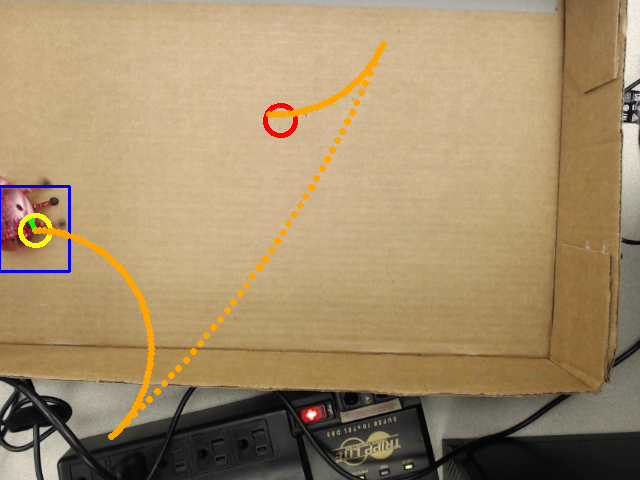
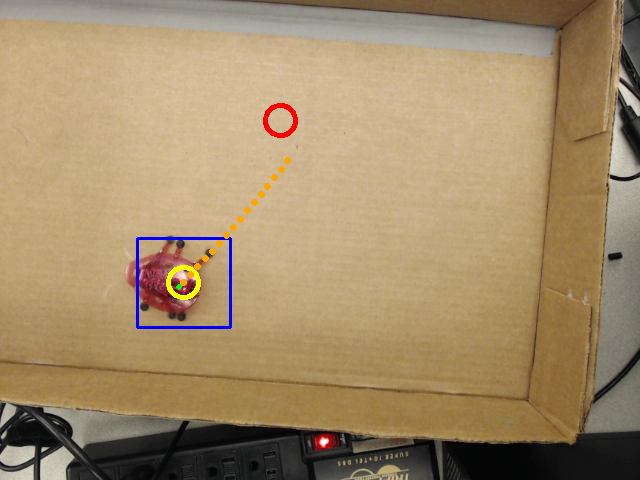
kinda working replanning

diff --git a/src/planners/sys_id.py b/src/planners/sys_id.py
@@ -57,19 +57,27 @@ def online_planning(planner, goal):
     ret, mat = video_capture.read()
     err_code, tracking_rect = tracker.update(mat)
     init_robot_state = two_rects_to_state(tracking_rect, last_track_rect)
+    replan_timestep_horizon = 20
     if not SYSTEM_ID_MODE:
         plan = planner.plan_to_pose(init_robot_state, goal)
-        planner.execute_plan(plan)
+        if plan:
+            planner.execute_plan(plan, replan_timestep_horizon)
+        else:
+            print("couldn't find plan")
     xys = []
     t = 0 
-    replan_timestep_horizon = 20
+
     while True: # and t < 10 * total_time: 
         ret, mat = video_capture.read()
         last_track_rect = tracking_rect
         err_code, tracking_rect = tracker.update(mat)
+        init_robot_state = two_rects_to_state(tracking_rect, last_track_rect)
         if t % replan_timestep_horizon == 0:
-            plan = planner.plan_to_pose(init_robot_state, goal)
-            planner.execute_plan(plan)
+            plan = planner.plan_to_pose(init_robot_state, goal, replan_timestep_horizon)
+            if plan:
+                planner.execute_plan(plan, replan_timestep_horizon)
+            else:
+                print("couldn't find plan")
         
         mat = cv2.rectangle(mat, (int(tracking_rect[0]), int(tracking_rect[1])), (int(tracking_rect[0] + tracking_rect[2]), int(tracking_rect[1] + tracking_rect[3])), 255, thickness=2)
         xy =  np.array([(tracking_rect[0] + tracking_rect[2] / 2), 

diff --git a/src/planners/rrt_planner.py b/src/planners/rrt_planner.py
@@ -50,6 +50,7 @@ class RRTPlanner(object):
         self.audio_seg = self.audio_seg[2000:3000]
         self.audio_seg.apply_gain(20)
         self.since_last_clap = 0
+        self.was_forward = True # this might need to sensed
 
 
     def plan_to_pose(self, start, goal, prefix_time_length=100):
@@ -81,7 +82,7 @@ class RRTPlanner(object):
         return None
 
 
-    def execute_plan(self, plan):
+    def execute_plan(self, plan, horizon):
         """
         Executes a plan made by the planner
 
@@ -96,7 +97,7 @@ class RRTPlanner(object):
         start_t = time.time()
         while True:
             t = (time.time() - start_t)
-            if t > plan.times[-1]:
+            if t > rate * horizon :
                 break
             state, cmd = plan.get(t)
             if cmd[1] == self.config_space.phi2 and (self.since_last_clap > self.config_space.primitive_duration or self.was_forward):
